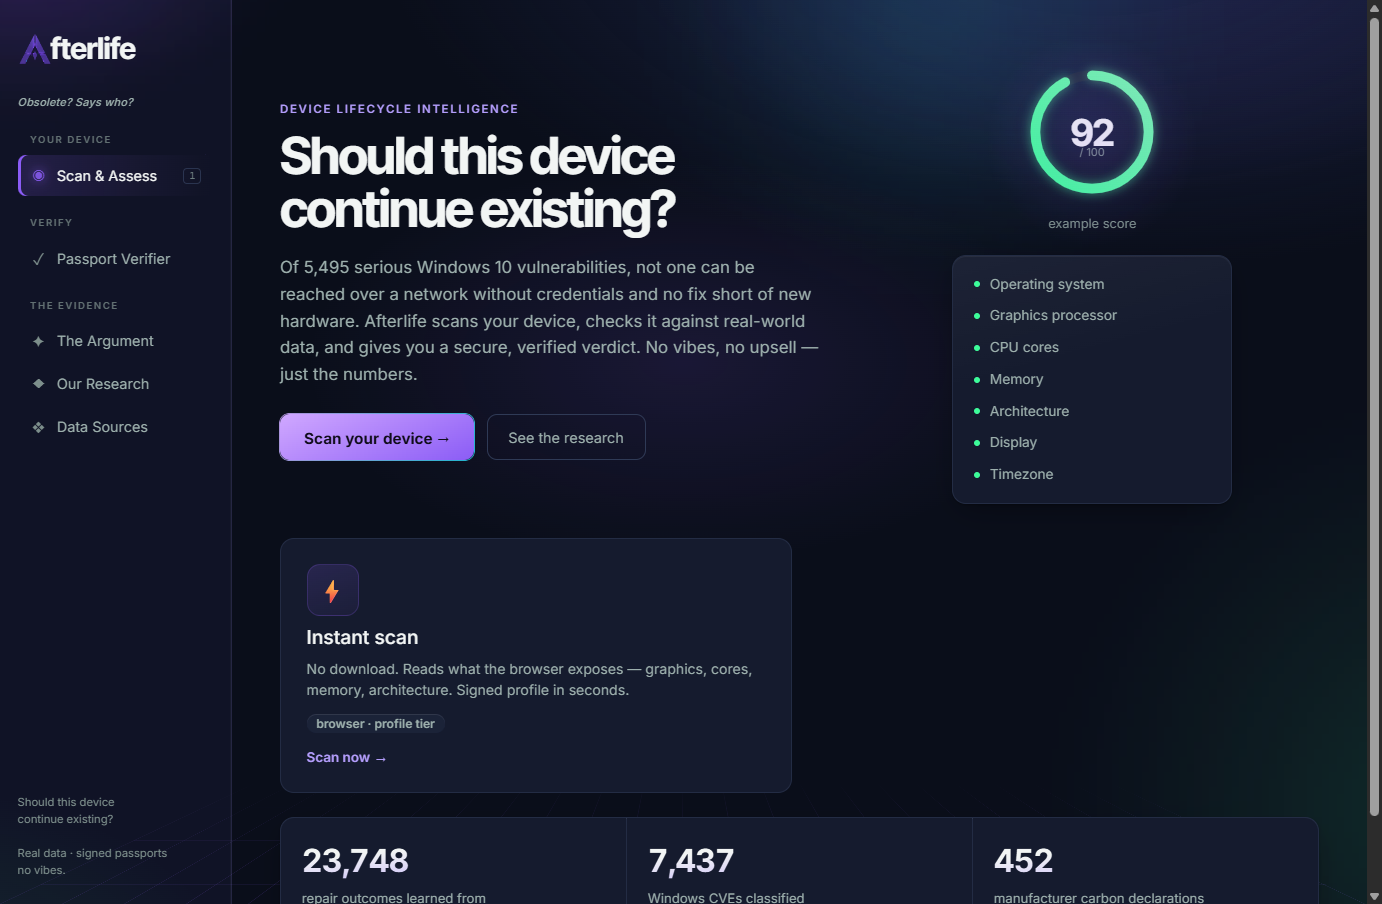
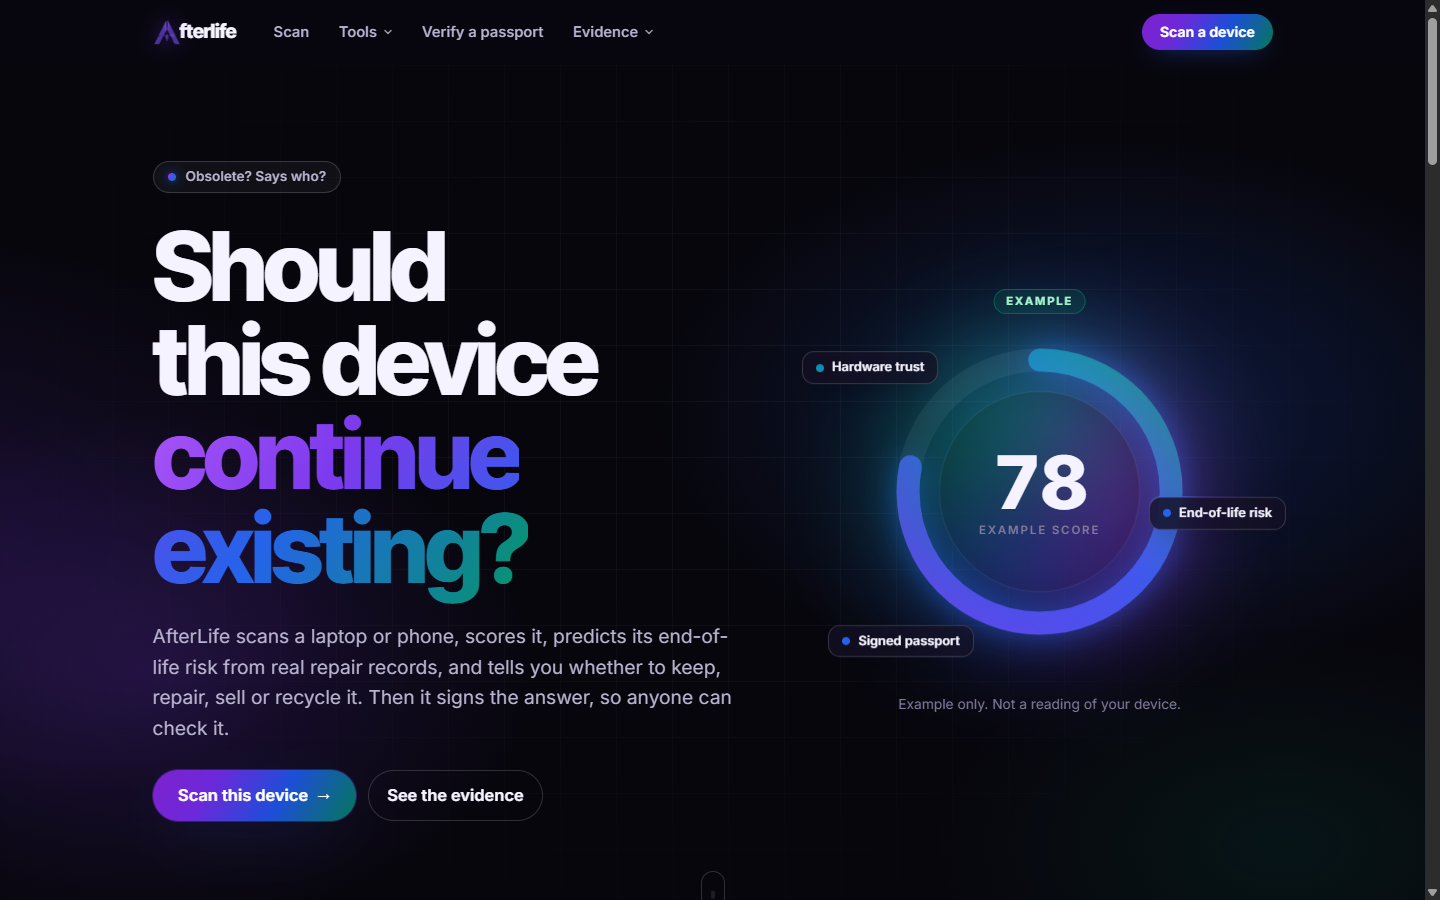
Docs: live link, new pages, current test counts and screenshots

diff --git a/README.md b/README.md
@@ -7,6 +7,8 @@ security and carbon data, and gives a **keep / repair / sell / recycle** verdict
 with the evidence behind it. The result is sealed into a **digitally signed
 passport** with a QR code that anyone can verify later.
 
+**Live:** https://afterlife-ruhin.vercel.app
+
 > Every number on screen is computed from data. Nothing is typed in by hand, and
 > the written summary only explains the numbers. It can never change them.
 
@@ -46,8 +48,9 @@ AfterLife gives people a verdict they can check instead of a guess.
 | **Lifecycle pathways** | Five options (keep, keep with hardening, repurpose, sell, recycle), each scored, with the best fit marked |
 | **Carbon trade-off** | How many years a new machine would need to repay the carbon spent building it, on the user's own electricity grid |
 | **Signed passport + QR** | The result, signed with Ed25519 inside a W3C Verifiable Credential envelope. Can be saved as JSON or as a QR image. |
-| **Passport Verifier** | Upload a passport's QR image or paste its JSON to check it was issued by AfterLife and has not been edited |
-| **Evidence pages** | *The Argument*, *Our Research* and *Data Sources*: the findings and datasets behind every verdict |
+| **Passport Verifier** | Upload a passport's QR image, paste its JSON, or point a camera at the QR, to check it was issued by AfterLife and has not been edited |
+| **Evidence pages** | *How it works*, *The Argument*, *Our Research* and *Data Sources*: the method, findings and datasets behind every verdict |
+| **Tools** | A *carbon calculator* for any country and device class, and a *Windows 10 countdown* to the end of security updates |
 
 ![Assessment result](docs/screenshots/result.png)
 
@@ -66,6 +69,7 @@ AfterLife gives people a verdict they can check instead of a guess.
                                                   checks the Ed25519 signature
   Evidence pages                          ──►  /api/thesis  /api/findings  /api/sources
                                                   read from computed files in app_data/
+  Tools                                   ──►  /api/carbon-calc  /api/grid-countries  /api/esu
 ```
 
 ### The machine-learning model
@@ -95,7 +99,9 @@ own key, so a valid signature alone is never reported as "issued by AfterLife".
 
 ## Getting started
 
-Full step-by-step instructions are in **[docs/SPRINT1_GUIDE.md](docs/SPRINT1_GUIDE.md)**.
+The site is live at https://afterlife-ruhin.vercel.app (frontend on Vercel, API in
+Docker on Render). Full step-by-step instructions for running it yourself are in
+**[docs/SPRINT1_GUIDE.md](docs/SPRINT1_GUIDE.md)**.
 
 Short version (Windows, two Command Prompt windows):
 
@@ -120,16 +126,16 @@ API documentation is generated automatically at http://localhost:8000/docs.
 
 ```bat
 set PYTHONPATH=.
-venv\Scripts\python -m pytest          :: backend: 260 tests
+venv\Scripts\python -m pytest          :: backend: 289 tests
 
 cd frontend
-npm test                               :: frontend: 35 tests
+npm test                               :: frontend: 37 tests
 ```
 
 The backend tests drive the real API through FastAPI's test client. They check
 that the figures on the research pages match the data on disk, that a tampered
 passport fails verification, and that a missing measurement is never reported
-as a healthy one.
+as a healthy one. GitHub Actions runs both suites on every push.
 
 ---
 
@@ -148,7 +154,7 @@ afterlife/      core library
   geo.py            timezone -> country (no IP address is used)
   sources.py        provenance and freshness for every dataset
 api/main.py     FastAPI backend
-frontend/       React + Vite website
+frontend/       React + Vite website (src/v2/ holds the site shell and the newer pages)
 scripts/        data pipeline and model training (produce app_data/ and models/)
 app_data/       computed data files the API reads
 models/         trained model + metrics
@@ -183,6 +189,10 @@ fresh it is.
 - **Precomputed evidence.** Research figures are computed by scripts ahead of
   time and served as small files, instead of being recalculated per visitor.
 - **Small dependency footprint.** The frontend ships five runtime libraries.
+- **No language model.** The written summary is filled in by fixed rules, so an
+  assessment makes no GPU or external API call.
+- **Measured** (local, median of 10 requests): an assessment takes about 3 ms;
+  the main page script is about 76 kB compressed.
 
 ## Known limitations
 
@@ -192,12 +202,16 @@ fresh it is.
   Europe. It is not a sample of all devices.
 - The signature proves a passport was *not edited since issue*. It does not
   prove the browser reported the hardware truthfully.
+- Nothing is stored on the server: there are no accounts or saved scans yet.
+- The free hosting tier sleeps when idle, so the first request after a quiet
+  period is slow.
 
 ## Roadmap
 
 - **Sprint 2:** deep hardware scan (battery, disk health, Windows 11 check),
-  accounts with saved scans, repair-outcome and repair-rights evidence, resale
-  estimate, live deployment
+  accounts with saved scans, usage fit, repair-outcome and repair-rights
+  evidence, resale estimate, side-by-side passport comparison, plain-language
+  explanations. (The live deployment planned here was done early, in Sprint 1.)
 - **Sprint 3:** EU repairability grade (EPREL), PDF passport, plain/technical
   view, measured before-and-after green optimisation, user testing
 

diff --git a/docs/SPRINT1_GUIDE.md b/docs/SPRINT1_GUIDE.md
@@ -1,13 +1,14 @@
 # Sprint 1 guide: running and demonstrating AfterLife
 
 This guide covers the Sprint-1 build: what is in it, how to run it on a Windows
-laptop, how to demonstrate it, and how to deploy it.
+laptop, how to demonstrate it, and how to deploy it. The live site is
+https://afterlife-ruhin.vercel.app.
 
 ## 1. What Sprint 1 delivers
 
 | User story | Where to see it |
 |---|---|
-| Run an instant scan in the browser after giving consent | *Scan & Assess* → **Scan your device** |
+| Run an instant scan in the browser after giving consent | **Scan a device** (top right) or the **Scan** tab |
 | Add device type, age and any fault the browser cannot see | The **Complete the picture** form |
 | See a combined score and grade with every adjustment explained | **Combined score** card and waterfall |
 | Get an end-of-life risk from a model trained on real repair outcomes | Passport card, **Lifecycle outlook** bars |
@@ -15,8 +16,9 @@ laptop, how to demonstrate it, and how to deploy it.
 | Get a keep / repair / sell / recycle recommendation | **Lifecycle pathways** card |
 | See the carbon cost of buying a replacement on this grid | **Would replacing it be greener?** card |
 | Receive a signed, tamper-proof passport with a QR code | Passport card → **Save passport (JSON)** / **Save QR (PNG)** |
-| Check that a passport is genuine | *Passport Verifier* page |
-| See the evidence and datasets behind every number | *The Argument*, *Our Research*, *Data Sources* |
+| Check that a passport is genuine | **Verify a passport** (upload a QR image, paste, or camera) |
+| See the evidence and datasets behind every number | **Evidence** menu: *How it works*, *The Argument*, *Our Research*, *Data Sources* |
+| Try the carbon maths for any country, or see the Windows 10 deadline | **Tools** menu: *Carbon calculator*, *Windows 10 countdown* |
 
 ## 2. One-time setup
 
@@ -65,9 +67,9 @@ To stop either one, click in its terminal and press **Ctrl+C**.
 
 ## 4. Demo script (about 3 minutes)
 
-1. **Home page.** The headline finding and the three dataset counts underneath
-   are read live from the data, not typed in.
-2. **Scan your device → Allow & scan.** Point out the consent list: no files, no
+1. **Home page.** The dataset counts on it are read live from the data, not
+   typed in.
+2. **Scan a device → Allow & scan.** Point out the consent list: no files, no
    browsing history, no personal data.
 3. **Complete the picture.** Pick the device type, enter an age, optionally type
    a fault (for example "battery drains fast"), then **Assess & mint passport**.
@@ -75,12 +77,15 @@ To stop either one, click in its terminal and press **Ctrl+C**.
    signature, so it cannot be edited either.
 5. **Assessment (right).** Walk through the score waterfall, the years left, the
    pathways, and the carbon card.
-6. **Save QR (PNG)**, open **Passport Verifier** and upload the QR image: it
-   verifies. Then **Save passport (JSON)**, open the file in Notepad, copy its
-   text, change one number, and paste it into the verifier: it is flagged as
-   altered.
-7. **The Argument / Our Research / Data Sources.** Every figure names its
-   dataset, and the sources page shows how fresh each dataset is.
+6. **Save QR (PNG)**, open **Verify a passport** and use **Upload QR**: it
+   verifies. (On the live site, a phone camera pointed at the QR does the same.)
+   Then **Save passport (JSON)**, open the file in Notepad, copy its text, change
+   one number, and paste it under **Paste**: it is flagged as altered.
+7. **Evidence → The Argument / Our Research / Data Sources.** Every figure names
+   its dataset, and the sources page shows how fresh each dataset is.
+
+The **Scan** tab keeps the current result while you look at other pages; the
+**Scan a device** button starts a fresh scan.
 
 **Tip:** do one practice scan before the audience watches. The first
 assessment after starting the backend takes 15–25 seconds while the model
@@ -101,7 +106,7 @@ demo:
    It opens the verifier with the passport already checked.
 
 Trade-off: browsers allow the camera only on `localhost` or `https`, so on the
-Network address the laptop's own **Scan with camera** button won't start.
+Network address the laptop's own **Camera** mode won't start.
 Uploading a QR image or pasting still works. Show the phone scan instead.
 
 ## 5. Running the tests
@@ -123,6 +128,8 @@ npm test
 | A passport made on one machine fails "issued by AfterLife" on another | Expected. Each backend signs with its own key (created in `data/keys/` on first start, never committed). |
 
 ## 7. Deploying
+
+The live site runs the frontend on Vercel and the backend on Render.
 
 **Backend** (any host that runs Docker, e.g. Render or a VPS):
 
